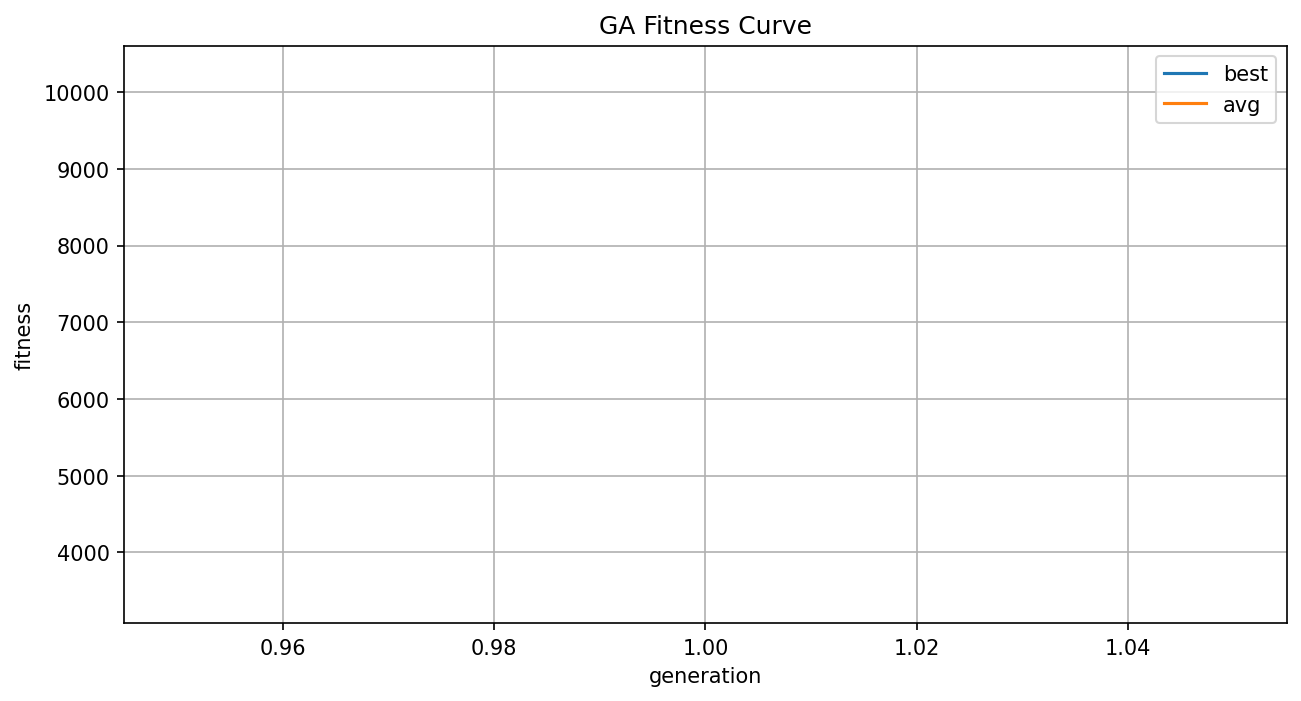
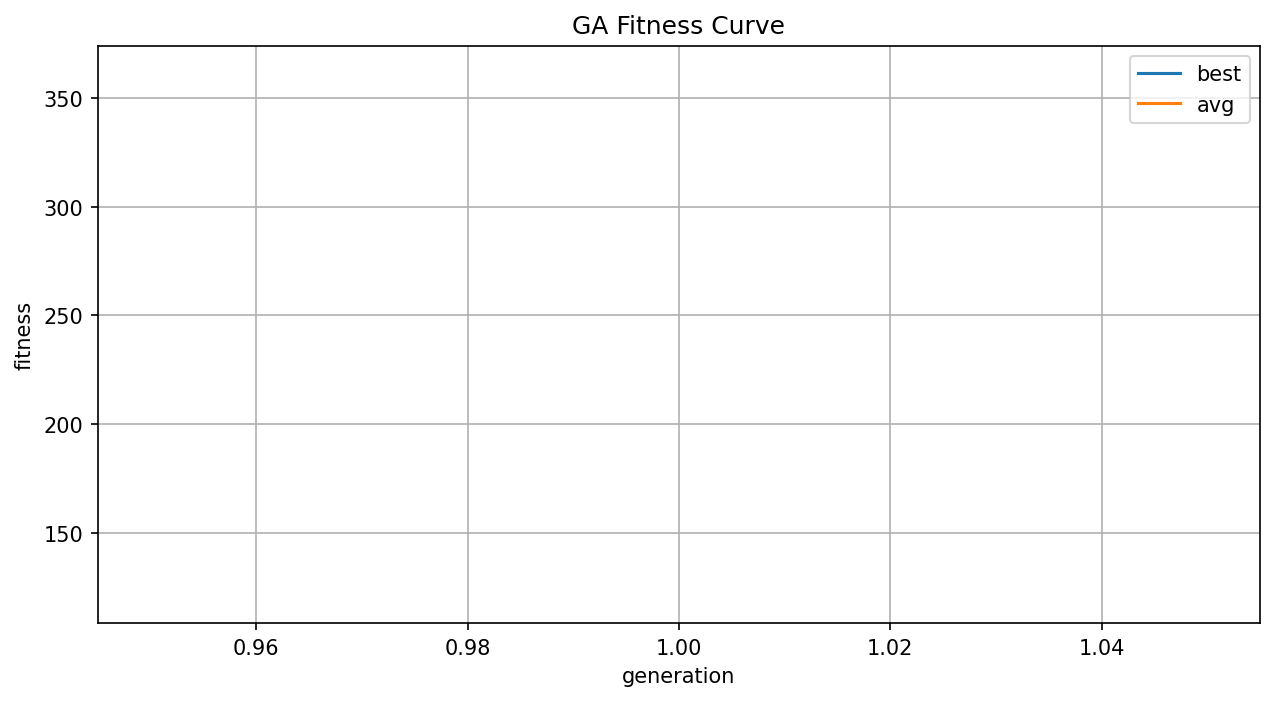
ok na wala na reklamo

diff --git a/project/agent.py b/project/agent.py
@@ -15,7 +15,6 @@ class Agent:
         return self.game.get_field_features()
 
     def moves(self, game, agent, dt, color_matrix):
-        
         """
         before:
         forces soft drop (walang condition kung ma soft drop o dae)
@@ -24,49 +23,40 @@ class Agent:
         """
         if self.action:
             # do action in order
-            if self.move_time <= agent.move_per_sec:
-                self.move_time += dt / 1000
+            if(self.move_time <= agent.move_per_sec):
+                self.move_time += dt/1000
             else:
                 # resets the move time
                 self.move_time = 0
                 # first action sequence - rotates tetromino to initial rotation
-                if self.action_sequence == 0:
+                if self.action_sequence==0:
                     for rot in range(0 + self.action[0]):
                         game.move_tetromino(ROTATE_RIGHT, color_matrix)
                     self.action_sequence += 1
                 # second action sequence - moves tetromino to drop x coordinate move by move, not instant
-                elif self.action_sequence == 1:
-                    target_x = self.action[1]
-                    current_x = game.current_piece.coord[0]
-                    dx = target_x - current_x
+                elif self.action_sequence==1:
+                    dx = self.action[1] - game.current_piece.coord[0]
                     if dx < 0:
                         game.move_tetromino(MOVE_LEFT, color_matrix)
-                        # ### FIX: do NOT modify dx manually, let game update coord
+                        dx -= 1
                     elif dx > 0:
                         game.move_tetromino(MOVE_RIGHT, color_matrix)
-                        # ### FIX: same, do not modify dx here
-                    # ### FIX: refresh coord to see if we reached target X
-                    if game.current_piece.coord[0] == target_x:
+                        dx += 1
+                    if dx == 0:
                         self.action_sequence += 1
-                # third action sequence - drop the tetromino
-                elif self.action_sequence == 2:
-                    # ### FIX: safely read drop_type OR default to HARD_DROP
-                    drop_type = self.action[3] if len(self.action) > 3 else HARD_DROP
-                    if drop_type == HARD_DROP:
-                        game.move_tetromino(HARD_DROP, color_matrix)
-                        self.action_sequence = 4
-                    else:
-                        game.soft_drop()
-                        self.action_sequence += 1
+                # third action sequence - soft drop the tetromino
+                elif self.action_sequence==2:
+                    game.soft_drop()
+                    self.action_sequence+=1
                 # fourth action sequence - if we have a t-spin, then we rotate the tetromino when it's in the bottom
-                elif self.action_sequence == 3:
+                elif self.action_sequence==3:
                     game.move_tetromino(self.action[2], color_matrix)
-                    self.action_sequence += 1
+                    self.action_sequence+=1
                 # finally we let the game place the block, then we clear action tuple and reset sequence
-                elif self.action_sequence == 4:
-                    game.update(game.fall_speed * 1000 + 1, color_matrix)
-                    self.action = None
-                    self.action_sequence = 0
+                elif self.action_sequence==4:
+                    game.update(game.fall_speed*1000+1, color_matrix)
+                    self.action=None
+                    self.action_sequence=0
         else:
             self.action = agent.choose_action(game)
 

diff --git a/project/ga_train_screen.py b/project/ga_train_screen.py
@@ -69,6 +69,10 @@ while running:
     reward = 0
     games += 1
     color_matrix = [[BLACK for _ in range(COLUMNS)] for _ in range(ROWS)]
+
+    agent.move_time=0
+    agent.action_sequence=0
+    agent.action=None
     
     #game logic
     while not game.game_over and running:
